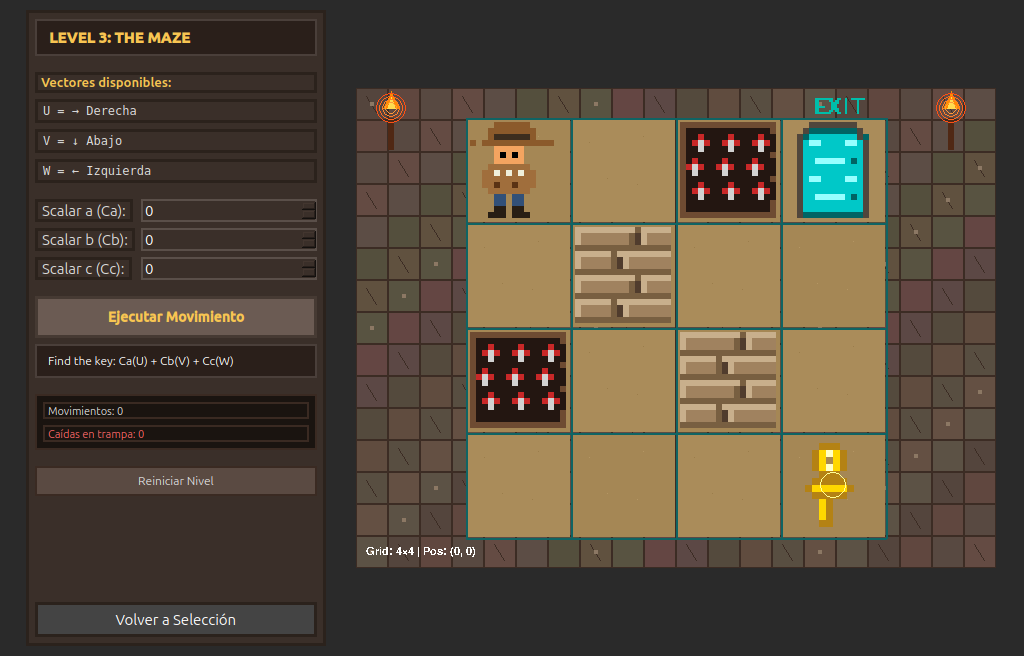
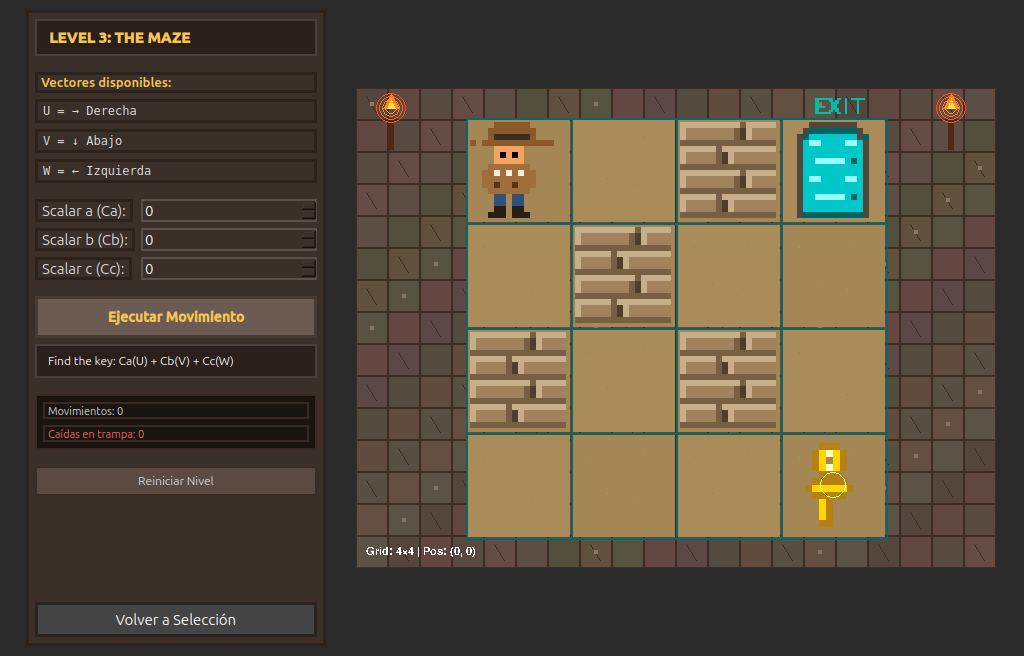
fix: render traps as walls instead of spikes for surprise mechanic

Changed region(s): [[0.6562, 0.1829, 0.7812, 0.3354], [0.4375, 0.4878, 0.5625, 0.6402]]

diff --git a/screens/game_renderer.py b/screens/game_renderer.py
@@ -230,10 +230,10 @@ class GameRenderer:
                 s.set_at((x + 6 * pixel_unit, y + 10 * pixel_unit), grain_color)
                 s.set_at((x + 11 * pixel_unit, y + 11 * pixel_unit), grain_color)
         
-        # 2. Dibujar trampillas (casillas peligrosas)
+        # 2. Dibujar trampillas (casillas peligrosas, ocultas como paredes)
         for trap_pos in state.traps:
             tx, ty = grid_to_px(trap_pos, self.grid_origin, self.cell)
-            self.draw_sprite(s, tx, ty, self.cell, TRAP_SPRITE, TRAP_COLORS, padding=2)
+            self.draw_sprite(s, tx, ty, self.cell, WALL_SPRITE, WALL_COLORS, padding=1)
         
         # 3. Dibujar paredes de ladrillo pixeladas
         for wall_pos in state.walls: